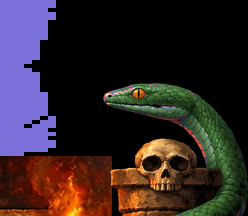
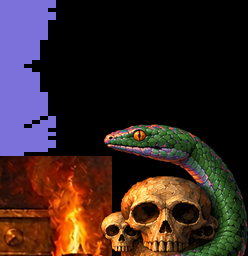
Redesign throne columns and snake tails
Replace the stone caps with skull capitals, bring the snake tails down in front of the columns, and lower the columns on screen. Update the layout, painting, pose mapping, and generated stage assets.

diff --git a/tools/draw_snakes.py b/tools/draw_snakes.py
@@ -6,8 +6,9 @@ life of each fighter as 6 brown blobs. They are painted here in the style of the
 tools/snakes_painting.png is an oil painting made with an image model, in the style of tools/throne_painting.jpg, from
 a layout reference (tools/snakes_layout.png: the pillar with its base and the snake coiled round it, the three head
 poses as they sit on the game grid, and a big skull) on a black background. It holds the column on a stepped base, with
-the violet snake (the colour of player A's) wrapped round it in a spiral and its tail hanging down the base and lying
-on the floor, the head in the two poses of a hurt snake, and the skull. This script maps it onto the game:
+the violet snake (the colour of player A's) wrapped round it in a spiral, its last coil crossing the front and its tail
+falling in front of the shaft and the base and lying on the floor, the head in the two poses of a hurt snake, and the
+skull. The column is capped by a capital made of skulls only. This script maps it onto the game:
 
 * the column goes into throne.png at both sides (`paint_pillars`): player B's is player A's mirrored and recoloured
   green, as in the C64 picture. The base and the tail on the floor reach into the room, so the column is laid over the
@@ -32,11 +33,11 @@ MASTER = 6                   # pixels per game pixel of the column that is kept 
 PX_X, PX_Y = 7.05, 7.49      # pixels of the painting per game pixel, across and down: the model paints the column a little
                              # taller than the layout, and these give back the proportions of the layout (see below)
 FLOOR = 200
-HEAD_TOP, HEAD_ROWS, HEAD_WIDTH = 16, 54, 62   # where the game draws the head poses, and their size: they end at row 70,
-                                               # where the column that the fighters walk behind starts (OVERLAY_TOP)
+HEAD_TOP, HEAD_ROWS, HEAD_WIDTH = 16, 64, 62   # where the game draws the head poses, and their size: they end at row 80, a
+                                               # little below where the column that the fighters walk behind starts (OVERLAY_TOP)
 SPAN = 98                    # game pixels covered by the column, from the edge of the screen: the tail reaches there
 CLEAR = 34                   # the C64 picture has its pillar up to this column
-PILLAR_TOP = 58              # the game row of the top of the column (RIM_Y)
+PILLAR_TOP = 60              # the game row of the top of the column (RIM_Y), the top of its skulls
 SHADOW_FROM = 172            # the game row where the floor starts: the base and the tail cast a shadow on it
 FLOOR_VISIBLE = SHADOW_FROM  # the floor goes on to the edge of the screen, under and beside the base (the room's floor, mirrored)
 # the fighters walk behind the column: what covers them is cut out of the picture, from the top of what a fighter of the
@@ -44,25 +45,25 @@ FLOOR_VISIBLE = SHADOW_FROM  # the floor goes on to the edge of the screen, unde
 # lies on the floor below that, where nobody walks.
 OVERLAY_TOP, OVERLAY_ROWS, OVERLAY_WIDTH = 70, 120, 46
 
-# marks on the painting (pixels): game column 0 (the left of the coils), the top of the column (its cap) and its foot,
-# the column and the rows of the poses' sheet (it holds only the poses to the right of that column and above that row),
-# where the first guess of the two other head poses is, and the big skull. The cap is at row 58 of the game and the foot
-# at about 186, which with the width of the shaft gives PX_X and PX_Y.
+# marks on the painting (pixels): game column 0 (the left of the coils), the top of the column (the top of its skulls) and
+# its foot, the column and the rows of the poses' sheet (it holds only the poses to the right of that column and above that
+# row), where the first guess of the two other head poses is, and the big skull. The top is at row 60 of the game and the
+# foot at about 196, which with the width of the shaft gives PX_X and PX_Y.
 COLUMN_X = 24
-RIM_Y = 368
-SHEET_X, SHEET_Y = 328, 1135
-POSE_GUESS = {1: (309, 337), 2: (309, 676)}
+RIM_Y = 307
+SHEET_X, SHEET_Y = 328, 1170
+POSE_GUESS = {1: (310, 342), 2: (310, 690)}
 # the first row of the painting that belongs to each of these poses (above it the sheet holds the picture before)
-POSE_START = {1: 485, 2: 815}
-SKULL_AREA = (690, 110, 950, 370)
-# the part of the column that the head poses are lined up on: the skull and the cap, rows and columns
-MATCH = (320, 450, 85, 280)
-# The cap of the column and the skull never move: in every pose they are the ones of the calm pose, and only what is
-# snake (violet, or the red of the mouth and the tongue) is taken from the pose. The box that holds them, in game
-# pixels (left, right, top; it goes down to the bottom of the poses' pictures):
-STILL_BOX = (11.0, 35.5, 49.0)
-# game rows where the painted pose fades into the picture: below the skull, in the cap, above the bottom of the pose's picture
-FADE = (PILLAR_TOP + 6.4, PILLAR_TOP + 8.4)
+POSE_START = {1: 500, 2: 850}
+SKULL_AREA = (665, 130, 900, 370)
+# the part of the column that the head poses are lined up on: the skulls, rows and columns
+MATCH = (300, 460, 60, 290)
+# The skulls of the column never move: in every pose they are the ones of the calm pose, and only what is snake (violet,
+# or the red of the mouth and the tongue) is taken from the pose. The box that holds them, in game pixels (left, right,
+# top; it goes down to the bottom of the poses' pictures):
+STILL_BOX = (6.5, 37.5, 59.0)
+# game rows where the painted pose fades into the picture: below the skulls' jaws, above the bottom of the pose's picture
+FADE = (PILLAR_TOP + 15.0, PILLAR_TOP + 18.0)
 # the key that turns the black of the painting into transparency: brightness below LOW is clear, above HIGH solid
 KEY = (8, 30)
 
@@ -89,7 +90,11 @@ def window(x, y, width, height):
     """The painting from pixel (x, y), `width` x `height` game pixels, as an RGB float array at MASTER."""
     p = painting()
     x0, y0 = int(round(x)), int(round(y))
-    crop = p[max(y0, 0):y0 + int(round(height * PX_Y)), x0:x0 + int(round(width * PX_X))]
+    w, h = int(round(width * PX_X)), int(round(height * PX_Y))
+    crop = np.zeros((h, w, 3), np.float32)                  # what is outside the painting is black
+    sy, sx = max(y0, 0), max(x0, 0)
+    part = p[sy:y0 + h, sx:x0 + w]
+    crop[sy - y0:sy - y0 + part.shape[0], sx - x0:sx - x0 + part.shape[1]] = part
     return resized(crop, (int(width * MASTER), int(height * MASTER)))
 
 
@@ -227,7 +232,7 @@ def column_overlay(picture, side, s):
 def head_layer(pose):
     """The top of the column of player A with the head in `pose` (0 to 2), as RGB (straight) and alpha arrays at MASTER:
     HEAD_ROWS x HEAD_WIDTH game pixels from the corner of the picture. Pose 0 is the column; the others are painted over
-    it down to the cap and fade into it below, so the column stays seamless."""
+    it down to the skulls and fade into it below, so the column stays seamless."""
     rgb, alpha = column()
     rows, columns = HEAD_ROWS * MASTER, HEAD_WIDTH * MASTER
     rgb0, alpha0 = rgb[:rows, :columns], alpha[:rows, :columns]
@@ -238,7 +243,7 @@ def head_layer(pose):
     game_rows = HEAD_TOP + (np.arange(rows) + 0.5) / MASTER
     game_columns = (np.arange(columns) + 0.5) / MASTER
     keep = np.repeat((1 - smoothstep(*FADE, game_rows))[:, None], columns, axis=1)
-    # the cap and the skull stay as they are in the calm pose: inside their box only the snake comes from the pose
+    # the skulls stay as they are in the calm pose: inside their box only the snake comes from the pose
     left, right, top = STILL_BOX
     inside = (game_columns[None, :] >= left) & (game_columns[None, :] <= right) & (game_rows[:, None] >= top)
     red, green_, blue = shot[..., 0], shot[..., 1], shot[..., 2]

diff --git a/tools/draw_snakes_layout.py b/tools/draw_snakes_layout.py
@@ -3,8 +3,9 @@ draw_snakes.py). It is a rough 3D render on a black background, so that what the
 
 * a stone column on a stepped base, and the snake as ONE tube that winds round it in a regular helix: it crosses the
   front slanting down to the right, goes round the right edge, behind the shaft (where only what sticks out at the
-  sides shows) and comes back round the left edge. Its tail leaves the last turn, hangs down in front of the base and
-  lies on the floor. At the top the neck rises along the left edge and the head faces the arena, above a skull;
+  sides shows) and comes back round the left edge. Its last turn crosses the front, and the tail leaves it there and falls
+  in front of the shaft and of the base to the floor, where it lies. At the top the neck rises along the left edge and
+  the head faces the arena, above the capital: a big skull with a smaller one at each side, and no stone cap;
 * the same top of the column in three poses of the head (calm, mouth half open with the tongue out, mouth wide open
   with fangs), one under the other, to the right of the column: the head of a plain snake, as wide as its neck;
 * a big skull, from which the skulls of the life indicators are cut.
@@ -21,7 +22,7 @@ OUT = Path(__file__).resolve().parent / 'snakes_layout.png'
 
 W, H, SS = 1024, 1536, 2                        # the sheet, and how much finer it is drawn than it is saved
 CX, SHAFT = 162.5, 80.5                         # the axis of the column and the radius of its shaft
-TOP, BASE = 405, 1100                           # the rows of the top of the shaft and of its foot
+TOP, BASE = 440, 1100                           # the rows of the top of the shaft (under the skulls) and of its foot
 TUBE = 27                                       # the radius of the snake's body
 HELIX = SHAFT + TUBE                            # the radius of the helix its centre follows
 PITCH, START = 160, 462                         # the height of a turn, and the row where the first one begins
@@ -36,7 +37,7 @@ POSES = [
     dict(tilt=12, jaw=22, neck=(176, 270), arch=0.6, fangs=False, tongue=58),
     dict(tilt=26, jaw=44, neck=(214, 262), arch=1.0, fangs=True, tongue=70),
 ]
-PANEL_DX, PANEL_DY, PANEL_BOTTOM = 295, (0, 322, 640), 447
+PANEL_DX, PANEL_DY, PANEL_BOTTOM = 295, (0, 340, 680), 480
 
 
 class Sheet:
@@ -134,7 +135,7 @@ def spline(points, count):
 
 # ---------------------------------------------------------------------------------------------------- the column
 def draw_column(sheet, with_base=True, bottom=None):
-    """The shaft with its drums, the cap on top of it and, below, the stepped base."""
+    """The shaft with its drums and, below, the stepped base (the top of the shaft is hidden by the skulls of the capital)."""
     last = BASE if bottom is None else bottom
     xs = np.arange(int((CX - SHAFT) * SS), int((CX + SHAFT) * SS))
     dx = ((xs + 0.5) / SS - CX) / SHAFT
@@ -144,13 +145,6 @@ def draw_column(sheet, with_base=True, bottom=None):
     for y in range(TOP * SS, last * SS):
         seam = (y / SS - TOP) % 174 < 3 and y / SS > TOP + 20
         sheet.paint((y, y + 1, xs[0], xs[-1] + 1), (nz * SHAFT)[None, :], (column * (0.45 if seam else 1))[None, :, :], np.ones((1, len(xs)), bool))
-    # the cap on top of the shaft: a little wider, rounded
-    cap = np.arange(int((CX - 90) * SS), int((CX + 90) * SS))
-    cdx = ((cap + 0.5) / SS - CX) / 90
-    cnz = np.sqrt(np.maximum(1 - cdx ** 2, 0))
-    ccol = shade((126, 96, 70), np.clip(cdx * LIGHT[0] + cnz * LIGHT[2], 0, 1), False)
-    for y in range((TOP - 24) * SS, (TOP + 8) * SS):
-        sheet.paint((y, y + 1, cap[0], cap[-1] + 1), (cnz * 90 + 1)[None, :], ccol[None, :, :], np.ones((1, len(cap)), bool))
     if not with_base:
         return
     steps = [(BASE, BASE + 24, 88, (130, 98, 70), True), (BASE + 24, BASE + 76, 94, (116, 88, 64), False),
@@ -200,10 +194,10 @@ def draw_skull(sheet, x, y, width, height, z):
 
 
 # ---------------------------------------------------------------------------------------------------- the snake
-def helix_points(turns=4, exit_angle=np.pi / 2 + 0.65):
+def helix_points(turns=4, end_angle=0.5):
     """The centre of the body from the left edge of the column at its top (the neck is joined there) down to where the last
-    turn has gone round the right edge and behind the column: 3D points (x, y, z), z towards the viewer."""
-    last = -np.pi / 2 + 2 * np.pi * (turns - 1) + np.pi / 2 + exit_angle
+    turn crosses the front of the column, going right: 3D points (x, y, z), z towards the viewer. The tail leaves it there."""
+    last = 2 * np.pi * (turns - 1) + end_angle
     phi = np.linspace(-np.pi / 2 - 0.25, last, int((last + np.pi / 2) * HELIX / 3))
     k = PITCH / (2 * np.pi)
     return np.stack([CX + HELIX * np.sin(phi), START + k * (phi + np.pi / 2), HELIX * np.cos(phi)], axis=1)
@@ -219,15 +213,13 @@ def neck_points(pose, count=110):
 
 
 def tail_points(end):
-    """The tail: the body goes on behind the column from `end` (where the last turn has gone behind it), comes out from
-    behind the right edge of the column, lower than that turn, hangs down in front of the base and lies on the floor to the
-    right, tapering to a thin tip. The part behind the shaft is hidden; only the end of it shows beside the shaft."""
+    """The tail: the body goes on from `end`, where the last turn crosses the front of the column, and falls in front of the
+    shaft and of the base to the floor, where it lies curving to the right, tapering to a thin tip."""
     x0, y0, z0 = end
-    right = CX + HELIX
-    path = [(x0, y0, z0), (CX + 48, y0 + 34, -HELIX * 0.85), (CX + 84, y0 + 62, -HELIX * 0.55), (right + 8, y0 + 92, -30),
-            (right + 36, y0 + 124, -6), (right + 46, 1170, 50), (right + 50, 1215, 132), (right + 76, 1252, 140),
-            (right + 140, 1264, 140), (right + 205, 1250, 140), (right + 270, 1258, 140), (right + 330, 1248, 140)]
-    return spline(path, 340)
+    path = [(x0, y0, z0), (CX + 82, y0 + 14, 98), (CX + 92, y0 + 58, 106), (CX + 74, y0 + 116, 116), (CX + 40, y0 + 168, 128),
+            (CX + 24, 1208, 140), (CX + 44, 1248, 150), (CX + 96, 1272, 152), (CX + 152, 1274, 152), (CX + 212, 1258, 152),
+            (CX + 276, 1266, 152), (CX + 340, 1254, 152), (CX + 410, 1250, 152)]
+    return spline(path, 420)
 
 
 def draw_head(sheet, pose, dx=0, dy=0):
@@ -276,7 +268,11 @@ def draw_head(sheet, pose, dx=0, dy=0):
 def add_top(sheet, pose, with_base):
     """The top of the column with its skull, and the neck and the head in `pose`."""
     draw_column(sheet, with_base=with_base, bottom=None if with_base else PANEL_BOTTOM)
-    draw_skull(sheet, CX - 48, TOP - 66, 98, 80, 250)
+    # the capital is all skulls: a big one in front of the top of the shaft and a smaller one at each side, which make it
+    # wider than the shaft (the one on the left is behind the neck of the snake)
+    draw_skull(sheet, CX - 126, TOP - 52, 92, 76, -5)
+    draw_skull(sheet, CX + 34, TOP - 52, 92, 76, 200)
+    draw_skull(sheet, CX - 90, TOP - 118, 180, 144, 250)
     sheet.tube(neck_points(pose), TUBE)
     draw_head(sheet, pose)
 
@@ -287,7 +283,7 @@ def main():
     add_top(sheet, POSES[0], True)
     helix = helix_points()
     sheet.tube(helix, TUBE)
-    sheet.tube(tail_points(helix[-1]), [TUBE, TUBE, TUBE, TUBE, TUBE * 0.9, TUBE * 0.7, TUBE * 0.45, TUBE * 0.2, 2])
+    sheet.tube(tail_points(helix[-1]), [TUBE] * 5 + [TUBE * 0.95, TUBE * 0.8, TUBE * 0.6, TUBE * 0.4, TUBE * 0.2, 2])
     # the three poses, to the right, each with the top of the column down to PANEL_BOTTOM
     for pose, dy in zip(POSES, PANEL_DY):
         panel = Sheet()

diff --git a/README.md b/README.md
@@ -126,10 +126,12 @@ is behind each game pixel. [`assets/manifest.json`](assets/manifest.json) descri
   `tools/snakes_layout.png`, in the style of the throne painting, on a black background). The layout is a rough 3D
   render made by `python tools/draw_snakes_layout.py`: each column stands on a stepped base, and the snake is a plain
   snake (not a cobra: its head is a smooth wedge as wide as its neck, with no hood) that winds round the shaft in a
-  regular spiral of constant thickness, with its tail coming out from behind the shaft below the last coil and lying on
-  the floor of the room; in the open-mouth poses (`POSES`: `tilt`, `jaw`, `neck`, `arch`) the head turns down toward
+  regular spiral of constant thickness, with its last coil crossing the front of the column and its tail falling in front
+  of the shaft and of the base to the floor of the room, where it lies. The capital is made of skulls only (a big one with
+  a smaller one at each side, no stone cap); the columns stand low on the screen, with their foot below the fighters'.
+  In the open-mouth poses (`POSES`: `tilt`, `jaw`, `neck`, `arch`) the head turns down toward
   the fighter. The painting is laid over the room picture wherever it is not black, with a soft shadow on the floor;
-  the cap and skull of the column always come from the calm pose (`STILL_BOX` in `draw_snakes.py`), so they never move
+  the skulls of the column always come from the calm pose (`STILL_BOX` in `draw_snakes.py`), so they never move
   between poses.
   `tools/draw_snakes.py`, called by `draw_throne.py`, maps it onto the game grid: the columns go into `throne.png`
   (player B's is A's mirrored and recoloured green) and the three poses of each snake head (calm, mouth half open with
